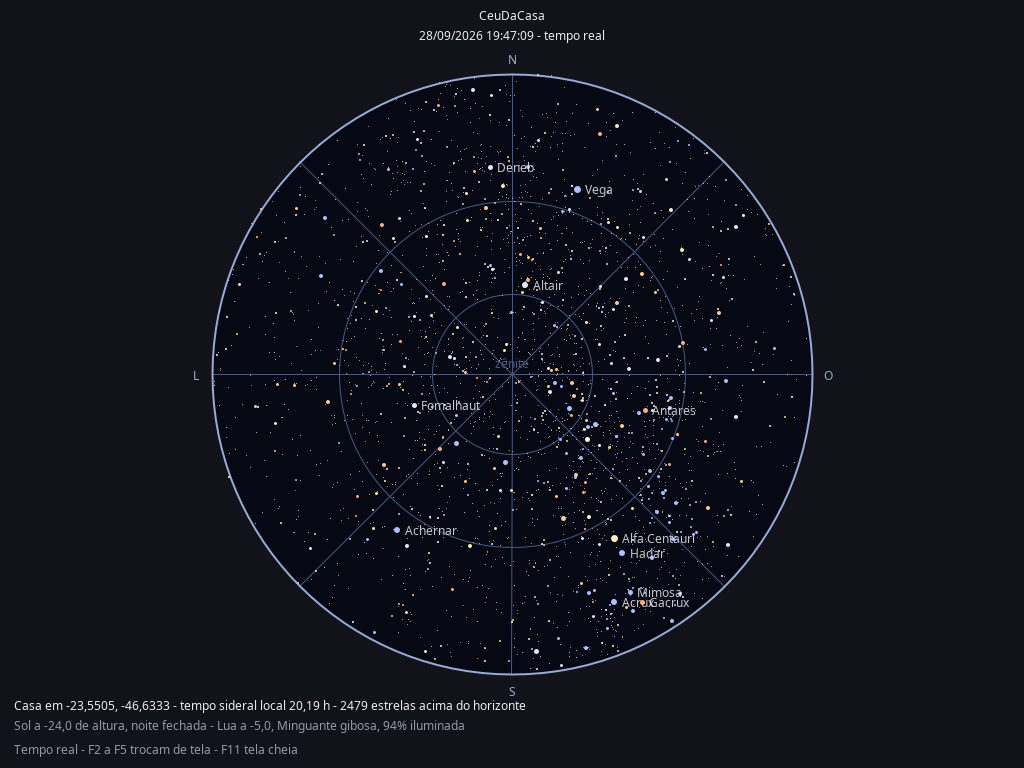
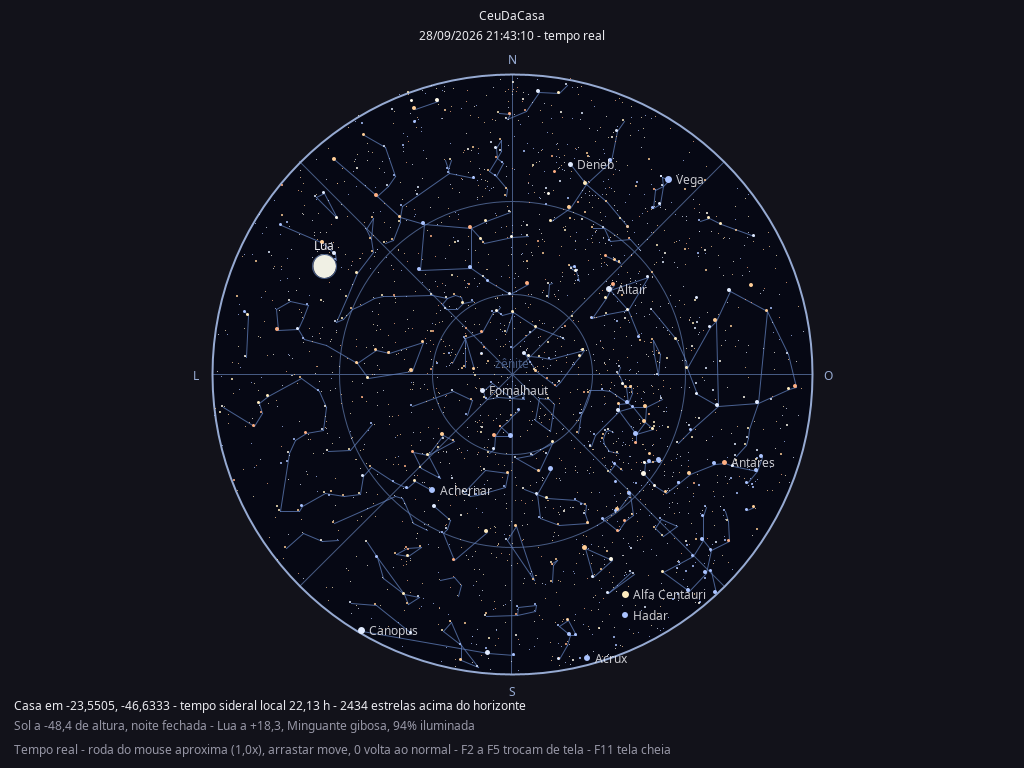
Linhas das constelações, zoom no céu e volta ao tempo corrente
O CeuDaCasa passa a desenhar as figuras das constelações. As linhas vêm do
projeto d3-celestial, de Olaf Frohn, sob licença BSD de três cláusulas, com
o texto dela junto do arquivo de dados. São 150 traços e 893 pontas, e 892
delas caem a menos de 0,05 grau de uma estrela do catálogo Hipparcos, com
mediana de 0,0002 grau, o que mostra que os dois conjuntos estão no mesmo
referencial.

A mesma tela ganhou zoom: a roda do mouse aproxima mantendo parado o ponto
sob o cursor, arrastar move o enquadramento, a tecla 0 volta ao normal e as
teclas + e - também aproximam e afastam.

Nas telas com tempo acelerado, voltar para o tempo real agora traz a data
de volta para agora. Andar no ritmo certo marcando um dia qualquer, para
onde a aceleração tinha levado, não fazia sentido.

diff --git a/src/main/java/com/scicrop/relogio/brasileiro/CeuDaCasa.java b/src/main/java/com/scicrop/relogio/brasileiro/CeuDaCasa.java
@@ -3,6 +3,9 @@ package com.scicrop.relogio.brasileiro;
 import java.awt.BasicStroke;
 import java.awt.Color;
 import java.awt.Graphics2D;
+import java.awt.Point;
+import java.awt.event.MouseAdapter;
+import java.awt.event.MouseEvent;
 import java.time.Duration;
 import java.time.Instant;
 
@@ -40,12 +43,93 @@ public class CeuDaCasa extends Cena
 	/** Abaixo disso o Sol ja nao clareia mais o ceu. */
 	private static final double FIM_DO_CREPUSCULO = -18;
 
+	private static final Color COR_CONSTELACAO = new Color(95, 125, 185);
+
+	/** Margens que o disco respeita, para o cabecalho e as linhas de baixo. */
+	private static final int MARGEM_DE_CIMA = 56;
+	private static final int MARGEM_DE_BAIXO = 76;
+
 	private final Configuracao casa = Configuracao.ler();
 	private final CatalogoDeEstrelas estrelas = CatalogoDeEstrelas.carregar();
+	private final LinhasDasConstelacoes constelacoes = LinhasDasConstelacoes.carregar();
+
+	private double zoom = 1;
+	private int deslocamentoX;
+	private int deslocamentoY;
+	private Point arrasto;
 
 	public CeuDaCasa() {
 		// o ceu anda so no tempo real: nada de acelerar as estrelas
 		super("CeuDaCasa", false);
+
+		atalho("typed +", () -> aproximar(1.25, getWidth() / 2, centroY()));
+		atalho("typed -", () -> aproximar(1 / 1.25, getWidth() / 2, centroY()));
+		atalho("0", () -> {
+			zoom = 1;
+			deslocamentoX = 0;
+			deslocamentoY = 0;
+		});
+
+		addMouseWheelListener(e -> {
+			aproximar(Math.pow(1.2, -e.getWheelRotation()), e.getX(), e.getY());
+			repaint();
+		});
+
+		MouseAdapter mao = new MouseAdapter() {
+			public void mousePressed(MouseEvent e) {
+				arrasto = e.getPoint();
+			}
+
+			public void mouseDragged(MouseEvent e) {
+				if (arrasto != null) {
+					deslocamentoX += e.getX() - arrasto.x;
+					deslocamentoY += e.getY() - arrasto.y;
+					arrasto = e.getPoint();
+					repaint();
+				}
+			}
+
+			public void mouseReleased(MouseEvent e) {
+				arrasto = null;
+			}
+		};
+		addMouseListener(mao);
+		addMouseMotionListener(mao);
+	}
+
+	protected String dicasExtras() {
+		return String.format(PT_BR, "roda do mouse aproxima (%.1fx), arrastar move, 0 volta ao normal", zoom);
+	}
+
+	/**
+	 * Aproxima ou afasta mantendo parado o ponto do ceu que esta sob o cursor.
+	 */
+	private void aproximar(double fator, int ancoraX, int ancoraY) {
+		double anterior = zoom;
+		zoom = Math.max(1, Math.min(20, zoom * fator));
+
+		double mudanca = zoom / anterior;
+		int baseX = getWidth() / 2;
+		int baseY = centroDaBase();
+		deslocamentoX = (int) ((ancoraX - baseX) - mudanca * (ancoraX - baseX - deslocamentoX));
+		deslocamentoY = (int) ((ancoraY - baseY) - mudanca * (ancoraY - baseY - deslocamentoY));
+	}
+
+	private int centroDaBase() {
+		return (MARGEM_DE_CIMA + getHeight() - MARGEM_DE_BAIXO) / 2;
+	}
+
+	private int centroX() {
+		return getWidth() / 2 + deslocamentoX;
+	}
+
+	private int centroY() {
+		return centroDaBase() + deslocamentoY;
+	}
+
+	private int raio() {
+		int base = Math.min((getHeight() - MARGEM_DE_CIMA - MARGEM_DE_BAIXO) / 2 - 18, getWidth() / 2 - 60);
+		return (int) (base * zoom);
 	}
 
 	protected void desenhar(Graphics2D g2, Instant instante) {
@@ -55,12 +139,9 @@ public class CeuDaCasa extends Cena
 			return;
 		}
 
-		// o disco ocupa o que sobra entre o cabecalho e as linhas de baixo
-		int margemDeCima = 56;
-		int margemDeBaixo = 76;
-		int centroX = getWidth() / 2;
-		int centroY = (margemDeCima + getHeight() - margemDeBaixo) / 2;
-		int raio = Math.min((getHeight() - margemDeCima - margemDeBaixo) / 2 - 18, getWidth() / 2 - 60);
+		int centroX = centroX();
+		int centroY = centroY();
+		int raio = raio();
 
 		double dias = Duration.between(J2000, instante).toMillis() / 86_400_000d;
 		double tempoSideral = Horizonte.tempoSideralLocal(dias, casa.getLongitude());
@@ -71,6 +152,7 @@ public class CeuDaCasa extends Cena
 
 		desenharCeu(g2, centroX, centroY, raio, claridade);
 		desenharGrade(g2, centroX, centroY, raio);
+		desenharConstelacoes(g2, centroX, centroY, raio, tempoSideral, claridade);
 		int visiveis = desenharEstrelas(g2, centroX, centroY, raio, tempoSideral, claridade);
 		desenharLua(g2, centroX, centroY, raio, instante, dias, tempoSideral);
 		desenharSol(g2, centroX, centroY, raio, sol);
@@ -111,6 +193,46 @@ public class CeuDaCasa extends Cena
 		g2.setColor(COR_HORIZONTE);
 		g2.setStroke(new BasicStroke(2));
 		g2.drawOval(centroX - raio, centroY - raio, raio * 2, raio * 2);
+	}
+
+	/**
+	 * As figuras das constelacoes. Um traco so aparece quando as duas pontas
+	 * dele estao acima do horizonte: perto da borda a projecao estica sem
+	 * limite, e uma ponta abaixo do horizonte jogaria a linha para fora do
+	 * mundo.
+	 */
+	private void desenharConstelacoes(Graphics2D g2, int centroX, int centroY, int raio,
+			double tempoSideral, double claridade) {
+		double transparencia = (1 - claridade) * 0.75;
+		if (transparencia < 0.02) {
+			return;
+		}
+
+		g2.setColor(transparente(COR_CONSTELACAO, transparencia));
+		g2.setStroke(new BasicStroke(1));
+
+		for (int i = 0; i < constelacoes.quantidade(); i++) {
+			double[][] traco = constelacoes.getTraco(i);
+
+			for (int ponto = 1; ponto < traco.length; ponto++) {
+				double[] antes = traco[ponto - 1];
+				double[] agora = traco[ponto];
+
+				double alturaAntes = Horizonte.altura(antes[0], antes[1], casa.getLatitude(), tempoSideral);
+				double alturaAgora = Horizonte.altura(agora[0], agora[1], casa.getLatitude(), tempoSideral);
+				if (alturaAntes <= 0 || alturaAgora <= 0) {
+					continue;
+				}
+
+				double azimuteAntes = Horizonte.azimute(antes[0], antes[1], casa.getLatitude(), tempoSideral);
+				double azimuteAgora = Horizonte.azimute(agora[0], agora[1], casa.getLatitude(), tempoSideral);
+
+				g2.drawLine(telaX(centroX, raio, alturaAntes, azimuteAntes),
+						telaY(centroY, raio, alturaAntes, azimuteAntes),
+						telaX(centroX, raio, alturaAgora, azimuteAgora),
+						telaY(centroY, raio, alturaAgora, azimuteAgora));
+			}
+		}
 	}
 
 	private int desenharEstrelas(Graphics2D g2, int centroX, int centroY, int raio,

diff --git a/src/main/java/com/scicrop/relogio/brasileiro/LinhasDasConstelacoes.java b/src/main/java/com/scicrop/relogio/brasileiro/LinhasDasConstelacoes.java
@@ -1,0 +1,95 @@
+package com.scicrop.relogio.brasileiro;
+
+import java.io.IOException;
+import java.io.InputStream;
+import java.util.ArrayList;
+import java.util.List;
+
+import org.codehaus.jackson.JsonFactory;
+import org.codehaus.jackson.JsonParser;
+import org.codehaus.jackson.JsonToken;
+
+/**
+ * Os tracos que ligam as estrelas nas figuras das constelacoes.
+ *
+ * As estrelas o catalogo ja dava, mas quais ligar em quais e uma escolha de
+ * desenho, nao um dado do ceu. Estes vem do projeto d3-celestial, de Olaf
+ * Frohn, sob licenca BSD de tres clausulas, que esta junto do arquivo em
+ * src/main/resources/ceu.
+ *
+ * Cada traco e uma sequencia de pontos em ascensao reta e declinacao, no
+ * mesmo sistema do catalogo de estrelas, entao e so converter para o
+ * horizonte de quem olha, do mesmo jeito.
+ *
+ */
+public final class LinhasDasConstelacoes
+{
+	private static final String ARQUIVO = "/ceu/constelacoes.json";
+
+	private static LinhasDasConstelacoes linhas;
+
+	/** Cada traco: uma lista de pontos, cada ponto com ascensao reta e declinacao. */
+	private final double[][][] tracos;
+
+	private LinhasDasConstelacoes(List<double[][]> lidos) {
+		tracos = lidos.toArray(new double[0][][]);
+	}
+
+	public static synchronized LinhasDasConstelacoes carregar() {
+		if (linhas != null) {
+			return linhas;
+		}
+
+		List<double[][]> lidos = new ArrayList<>();
+
+		try (InputStream entrada = LinhasDasConstelacoes.class.getResourceAsStream(ARQUIVO)) {
+			if (entrada != null) {
+				JsonParser leitor = new JsonFactory().createJsonParser(entrada);
+				while (leitor.nextToken() != null) {
+					if (leitor.getCurrentToken() == JsonToken.FIELD_NAME
+							&& "coordinates".equals(leitor.getCurrentName())) {
+						leitor.nextToken();
+						lerTracos(leitor, lidos);
+					}
+				}
+				leitor.close();
+			}
+		} catch (IOException e) {
+			// fica com o que deu para ler
+		}
+
+		return linhas = new LinhasDasConstelacoes(lidos);
+	}
+
+	/**
+	 * Le a lista de tracos de uma constelacao. O cursor esta no abre colchetes
+	 * que envolve todos eles.
+	 */
+	private static void lerTracos(JsonParser leitor, List<double[][]> destino) throws IOException {
+		while (leitor.nextToken() == JsonToken.START_ARRAY) {
+			List<double[]> pontos = new ArrayList<>();
+
+			while (leitor.nextToken() == JsonToken.START_ARRAY) {
+				leitor.nextToken();
+				double ascensaoReta = leitor.getDoubleValue();
+				leitor.nextToken();
+				double declinacao = leitor.getDoubleValue();
+				leitor.nextToken();
+
+				pontos.add(new double[] { ascensaoReta < 0 ? ascensaoReta + 360 : ascensaoReta, declinacao });
+			}
+
+			if (pontos.size() > 1) {
+				destino.add(pontos.toArray(new double[0][]));
+			}
+		}
+	}
+
+	public int quantidade() {
+		return tracos.length;
+	}
+
+	public double[][] getTraco(int i) {
+		return tracos[i];
+	}
+}

diff --git a/src/main/java/com/scicrop/relogio/brasileiro/Cena.java b/src/main/java/com/scicrop/relogio/brasileiro/Cena.java
@@ -90,12 +90,24 @@ public abstract class Cena extends JPanel
 		setBackground(FUNDO);
 
 		if (aceleravel) {
-			atalho("RIGHT", () -> velocidade = velocidade.maisRapido());
-			atalho("UP", () -> velocidade = velocidade.maisRapido());
-			atalho("LEFT", () -> velocidade = velocidade.maisDevagar());
-			atalho("DOWN", () -> velocidade = velocidade.maisDevagar());
-			atalho("T", () -> velocidade = Velocidade.TEMPO_REAL);
+			atalho("RIGHT", () -> mudarRitmo(velocidade.maisRapido()));
+			atalho("UP", () -> mudarRitmo(velocidade.maisRapido()));
+			atalho("LEFT", () -> mudarRitmo(velocidade.maisDevagar()));
+			atalho("DOWN", () -> mudarRitmo(velocidade.maisDevagar()));
+			atalho("T", () -> mudarRitmo(Velocidade.TEMPO_REAL));
 			atalho("A", () -> simulado = Instant.now());
+		}
+	}
+
+	/**
+	 * Troca o ritmo do tempo. Voltar para o tempo real traz a data de volta
+	 * para agora: seria estranho o relogio andar no ritmo certo, mas marcando
+	 * um dia qualquer para onde a aceleracao tinha levado.
+	 */
+	private void mudarRitmo(Velocidade nova) {
+		velocidade = nova;
+		if (velocidade == Velocidade.TEMPO_REAL) {
+			simulado = Instant.now();
 		}
 	}
 
@@ -107,7 +119,12 @@ public abstract class Cena extends JPanel
 	/** O que cada tela desenha, no instante do ceu que estiver correndo. */
 	protected abstract void desenhar(Graphics2D g2, Instant instante);
 
-	private void atalho(String tecla, Runnable acao) {
+	/** Teclas proprias da cena, para entrar no rodape. Nulo quando nao ha. */
+	protected String dicasExtras() {
+		return null;
+	}
+
+	protected void atalho(String tecla, Runnable acao) {
 		Object nome = "tecla " + tecla;
 		getInputMap(WHEN_IN_FOCUSED_WINDOW).put(KeyStroke.getKeyStroke(tecla), nome);
 		getActionMap().put(nome, new AbstractAction() {
@@ -159,11 +176,16 @@ public abstract class Cena extends JPanel
 
 		desenhar(g2, instante);
 
-		g2.setColor(COR_APAGADA);
-		g2.drawString(aceleravel
+		String rodape = aceleravel
 				? "Setas mudam o ritmo do tempo (agora em " + velocidade.nome
-						+ ") - T volta para tempo real - A volta para agora - F2 a F5 trocam de tela - F11 tela cheia"
-				: "Tempo real - F2 a F5 trocam de tela - F11 tela cheia", 14, getHeight() - 14);
+						+ ") - T volta para tempo real e para agora - A volta para agora"
+				: "Tempo real";
+		if (dicasExtras() != null) {
+			rodape += " - " + dicasExtras();
+		}
+
+		g2.setColor(COR_APAGADA);
+		g2.drawString(rodape + " - F2 a F5 trocam de tela - F11 tela cheia", 14, getHeight() - 14);
 	}
 
 	protected double diasDesdeJ2000(Instant instante) {

diff --git a/README.md b/README.md
@@ -114,7 +114,7 @@ Uma ressalva honesta: o projeto foi desenvolvido e testado no **Linux**, com Jav
 | `F5` | `CeuDaCasa` | o céu visto da sua casa |
 | `F11` | | tela cheia, sem bordas de janela |
 
-Cada troca desmonta a tela anterior e constrói a nova do zero. Em `F2` e `F3` as setas mudam o ritmo do tempo, de tempo real até **um ano por segundo**, que é quando dá para ver a linha dos nós girar. `T` volta para tempo real, `A` traz a data de volta para hoje.
+Cada troca desmonta a tela anterior e constrói a nova do zero. Em `F2` e `F3` as setas mudam o ritmo do tempo, de tempo real até **um ano por segundo**, que é quando dá para ver a linha dos nós girar. `T` volta para o tempo real e, junto, traz a data de volta para agora: não faria sentido o relógio andar no ritmo certo marcando um dia qualquer para onde a aceleração tinha levado. `A` volta para agora sem mexer no ritmo.
 
 ### A tela inicial
 
@@ -156,7 +156,9 @@ Esta é a tela que usa o WorldWind.
 
 Zênite no centro, horizonte na borda, projeção estereográfica, a mesma dos planisférios de papel. Como você está olhando para cima e não para um mapa, **o leste fica à esquerda**.
 
-São 5042 estrelas até magnitude 6, com o tamanho pelo brilho e a cor pelo índice B menos V. As mais brilhantes vêm com nome. O Sol e a Lua entram por cima, a Lua na fase certa. O fundo acompanha a altura do Sol: azul de dia, escurecendo pelos crepúsculos civil, náutico e astronômico até o preto da noite fechada, e as estrelas somem no clarão.
+São 5042 estrelas até magnitude 6, com o tamanho pelo brilho e a cor pelo índice B menos V, ligadas pelas linhas das constelações. As mais brilhantes vêm com nome. O Sol e a Lua entram por cima, a Lua na fase certa. O fundo acompanha a altura do Sol: azul de dia, escurecendo pelos crepúsculos civil, náutico e astronômico até o preto da noite fechada, e as estrelas somem no clarão.
+
+A **roda do mouse aproxima e afasta**, mantendo parado o ponto do céu que está sob o cursor, **arrastar move** o que está visível e a tecla `0` volta ao enquadramento inicial. As teclas `+` e `-` também servem.
 
 Esta tela anda **só em tempo real**. Acelerar as estrelas ficava bonito e mentia sobre o que você veria olhando para cima agora.
 
@@ -177,6 +179,7 @@ Nada aqui é figura estática:
 - **Sol**: elementos médios com a equação do centro. Nos equinócios de 2026 a declinação dá 0,00 e nos solstícios ±23,44. O pôr do sol previsto para São Paulo bateu com o instante em que o Sol cruzou o horizonte, com dezenas de segundos de diferença.
 - **Lua**: a fase vem da contagem de lunações desde uma lua nova conhecida; a posição no céu vem dos termos maiores da órbita. Os dois modelos são independentes e concordam na distância angular até o Sol dentro de 1 a 2 graus.
 - **Estrelas**: catálogo Hipparcos até magnitude 6, o mesmo que vem com o WorldWind.
+- **Linhas das constelações**: as estrelas são um dado do céu, mas quais ligar em quais é escolha de desenho. Estas vêm do [d3-celestial](https://github.com/ofrohn/d3-celestial), de Olaf Frohn. Das 893 pontas de traço, 892 caem a menos de 0,05 grau de uma estrela do catálogo, o que confirma que os dois conjuntos estão no mesmo referencial.
 - **Estações**: datas fixas (20/3, 21/6, 22/9, 21/12). Elas variam um dia conforme o ano.
 
 E as aproximações assumidas, para ninguém se enganar: a Terra percorre a órbita com velocidade angular constante (sem a segunda lei de Kepler, erro abaixo de 0,03% na distância até o Sol), as fases da Lua usam lunação média (erro de até meio dia na data), e as inclinações e distâncias dos diagramas estão fora de escala **de propósito**, porque a inclinação real da órbita lunar é invisível num desenho deste tamanho.
@@ -207,7 +210,6 @@ O `FasesDaLua` é uma tela inteira que não está montada em tecla nenhuma. Fico
 
 ## O que ainda não tem
 
-- **linhas das constelações** no F5. As estrelas estão nos lugares certos, falta o arquivo que diz quais ligar em quais.
 - as camadas de atmosfera e iluminação do WorldWind, que estão no pacote `worldwindx` e não foram copiadas.
 - a equação de Kepler, para a Terra andar mais rápido perto do periélio.
 
@@ -216,3 +218,5 @@ O `FasesDaLua` é uma tela inteira que não está montada em tecla nenhuma. Fico
 Este projeto está sob a **Licença Apache, versão 2.0**. O texto completo está no arquivo [LICENSE](LICENSE).
 
 O NASA WorldWind, em `src/worldwind/`, também é Apache 2.0, e a licença original dele está junto do código, em `src/worldwind/`.
+
+As linhas das constelações, em `src/main/resources/ceu/constelacoes.json`, são do projeto d3-celestial, de Olaf Frohn, sob licença BSD de três cláusulas. O texto dela está em `src/main/resources/ceu/LICENCA-d3-celestial.txt`.
